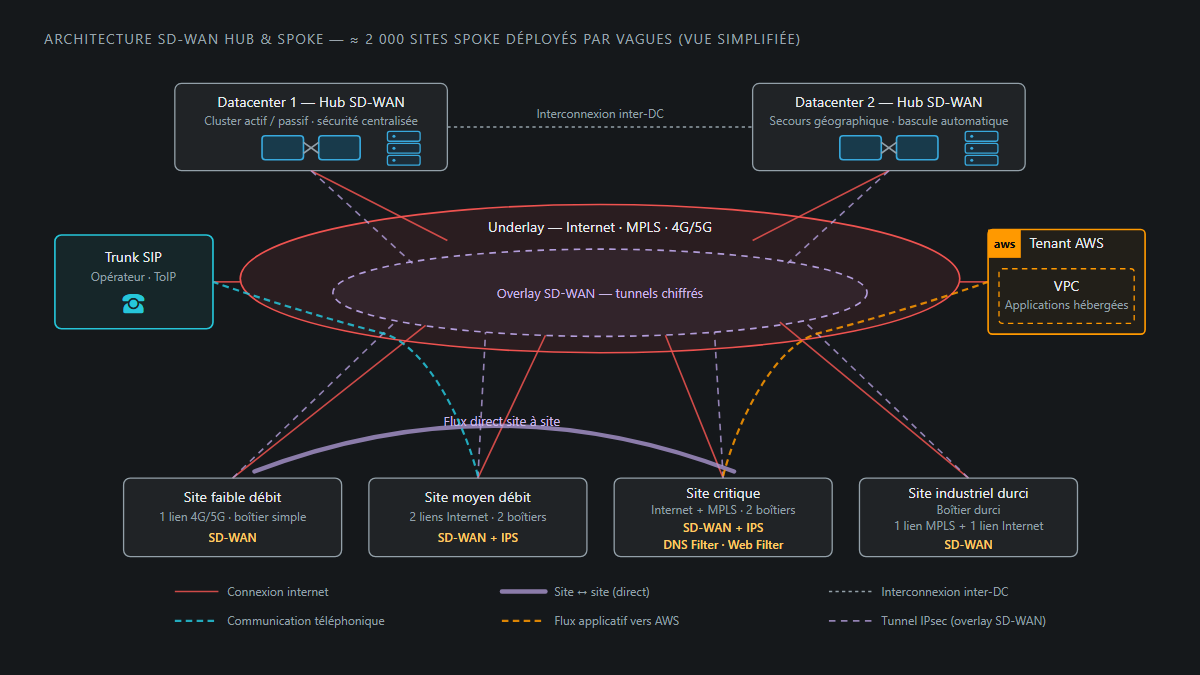
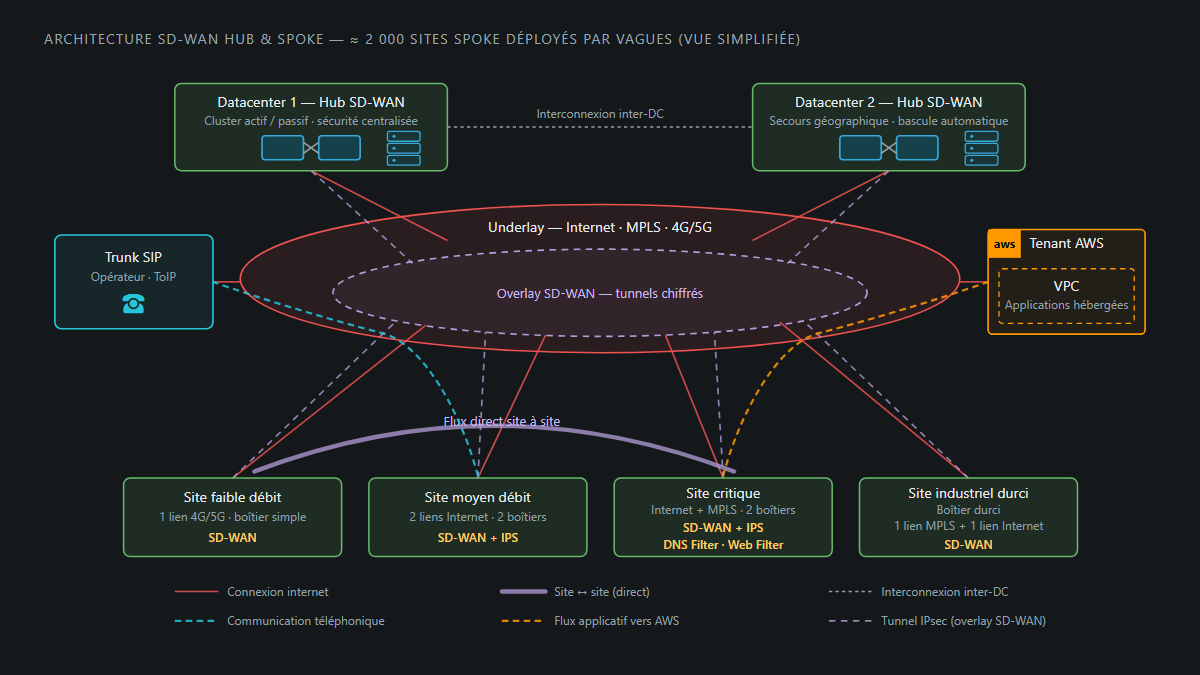
Cadres sites et DC en vert pour ressortir du fond, capture GBP regeneree

Changed region(s): [[0.2775, 0.7156, 0.3083, 0.8089]]

diff --git a/css/style.css b/css/style.css
@@ -333,7 +333,7 @@ a:hover { text-decoration: underline; }
 
 .d-cloud { fill: none; stroke: #93a0a9; stroke-width: 1.5; stroke-dasharray: 5 4; }
 .d-fw { fill: rgba(0, 126, 189, 0.25); stroke: #38a9dd; stroke-width: 1.5; }
-.d-zone { fill: rgba(255, 255, 255, 0.05); stroke: #93a0a9; stroke-width: 1.2; }
+.d-zone { fill: rgba(102, 187, 106, 0.12); stroke: #66bb6a; stroke-width: 1.4; }
 .d-link { stroke: #93a0a9; stroke-width: 1.5; fill: none; }
 .d-ha { stroke-dasharray: 3 3; }
 .d-underlay { fill: rgba(239, 83, 80, 0.10); stroke: #ef5350; stroke-width: 1.5; }

diff --git a/index.html b/index.html
@@ -26,7 +26,7 @@
   <meta name="twitter:description" content="Bureau d'étude : architectures SD-WAN, audits, Fortinet, cloud AWS. Infrastructures fiables et sécurisées pour entreprises et collectivités.">
   <meta name="twitter:image" content="https://www.infrarch.fr/assets/logo-web-transparent.png">
 
-  <link rel="stylesheet" href="css/style.css?v=18">
+  <link rel="stylesheet" href="css/style.css?v=19">
   <link rel="icon" href="assets/favicon.ico">
 
   <!-- Données structurées schema.org -->

diff --git a/mentions-legales.html b/mentions-legales.html
@@ -7,7 +7,7 @@
   <meta name="description" content="Mentions légales du site www.infrarch.fr — EURL INFRARCH, bureau d'étude en ingénierie réseau, sécurité et automatisation.">
   <meta name="robots" content="noindex, follow">
   <link rel="canonical" href="https://www.infrarch.fr/mentions-legales.html">
-  <link rel="stylesheet" href="css/style.css?v=18">
+  <link rel="stylesheet" href="css/style.css?v=19">
   <link rel="icon" href="assets/favicon.ico">
 </head>
 <body>